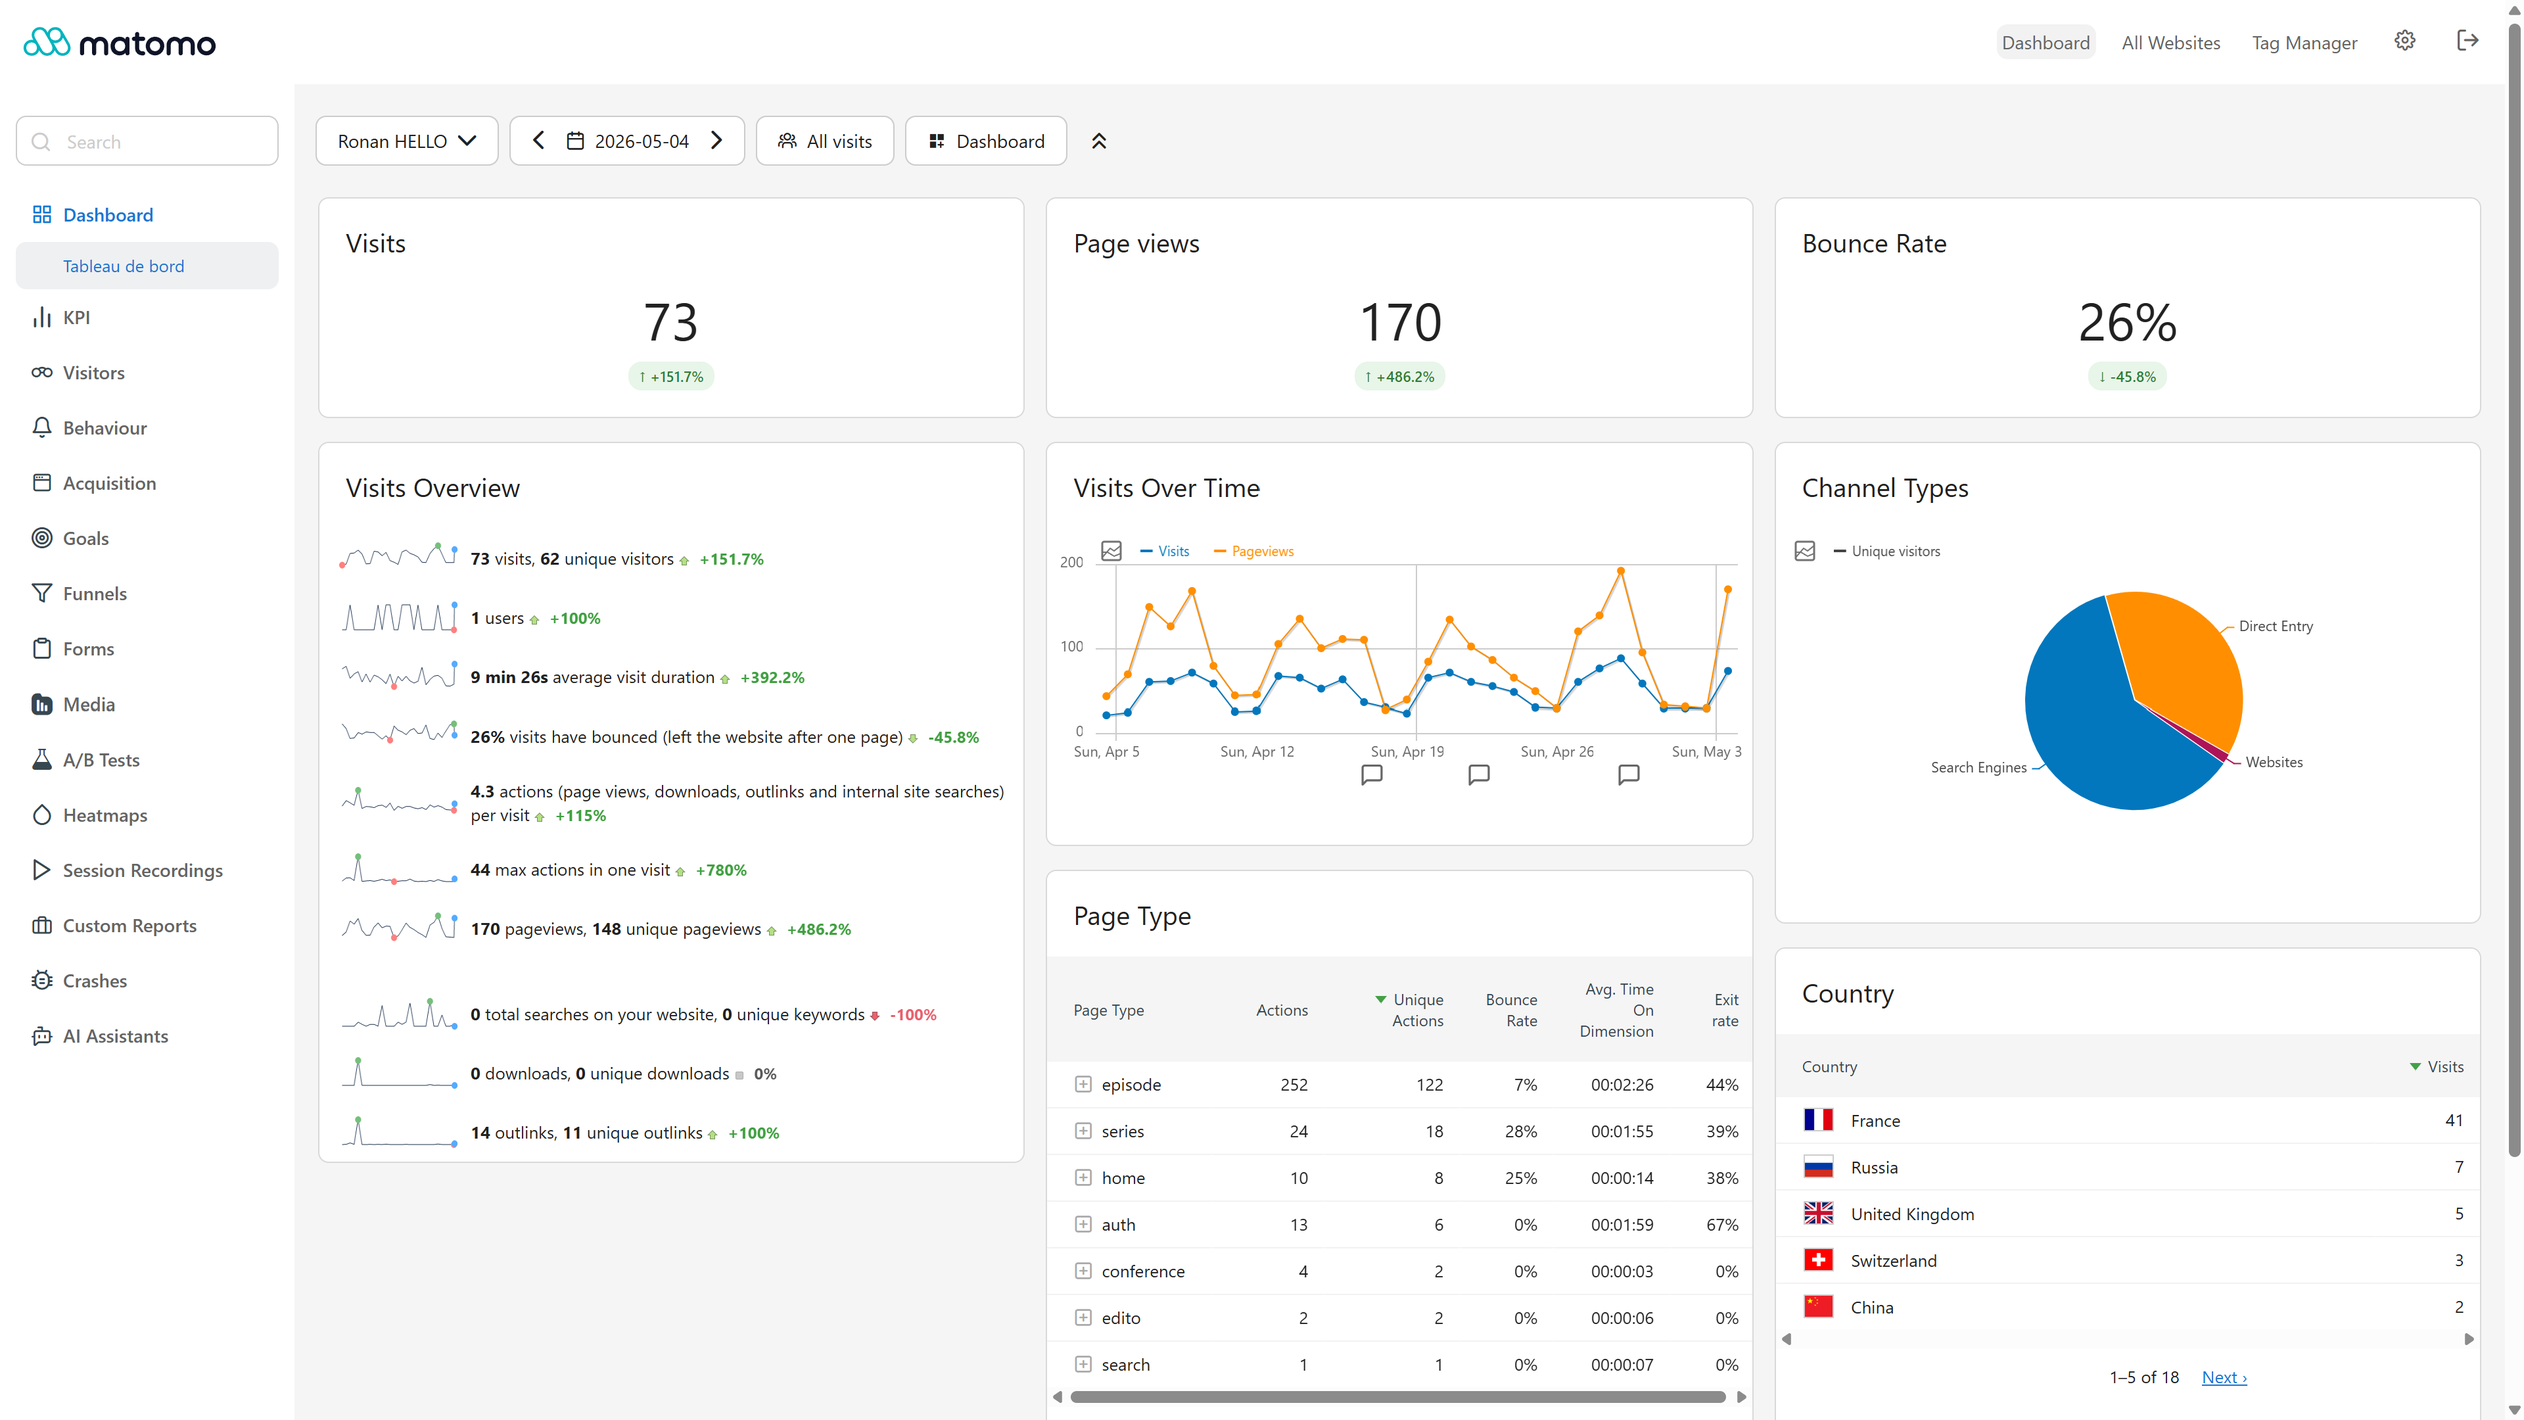
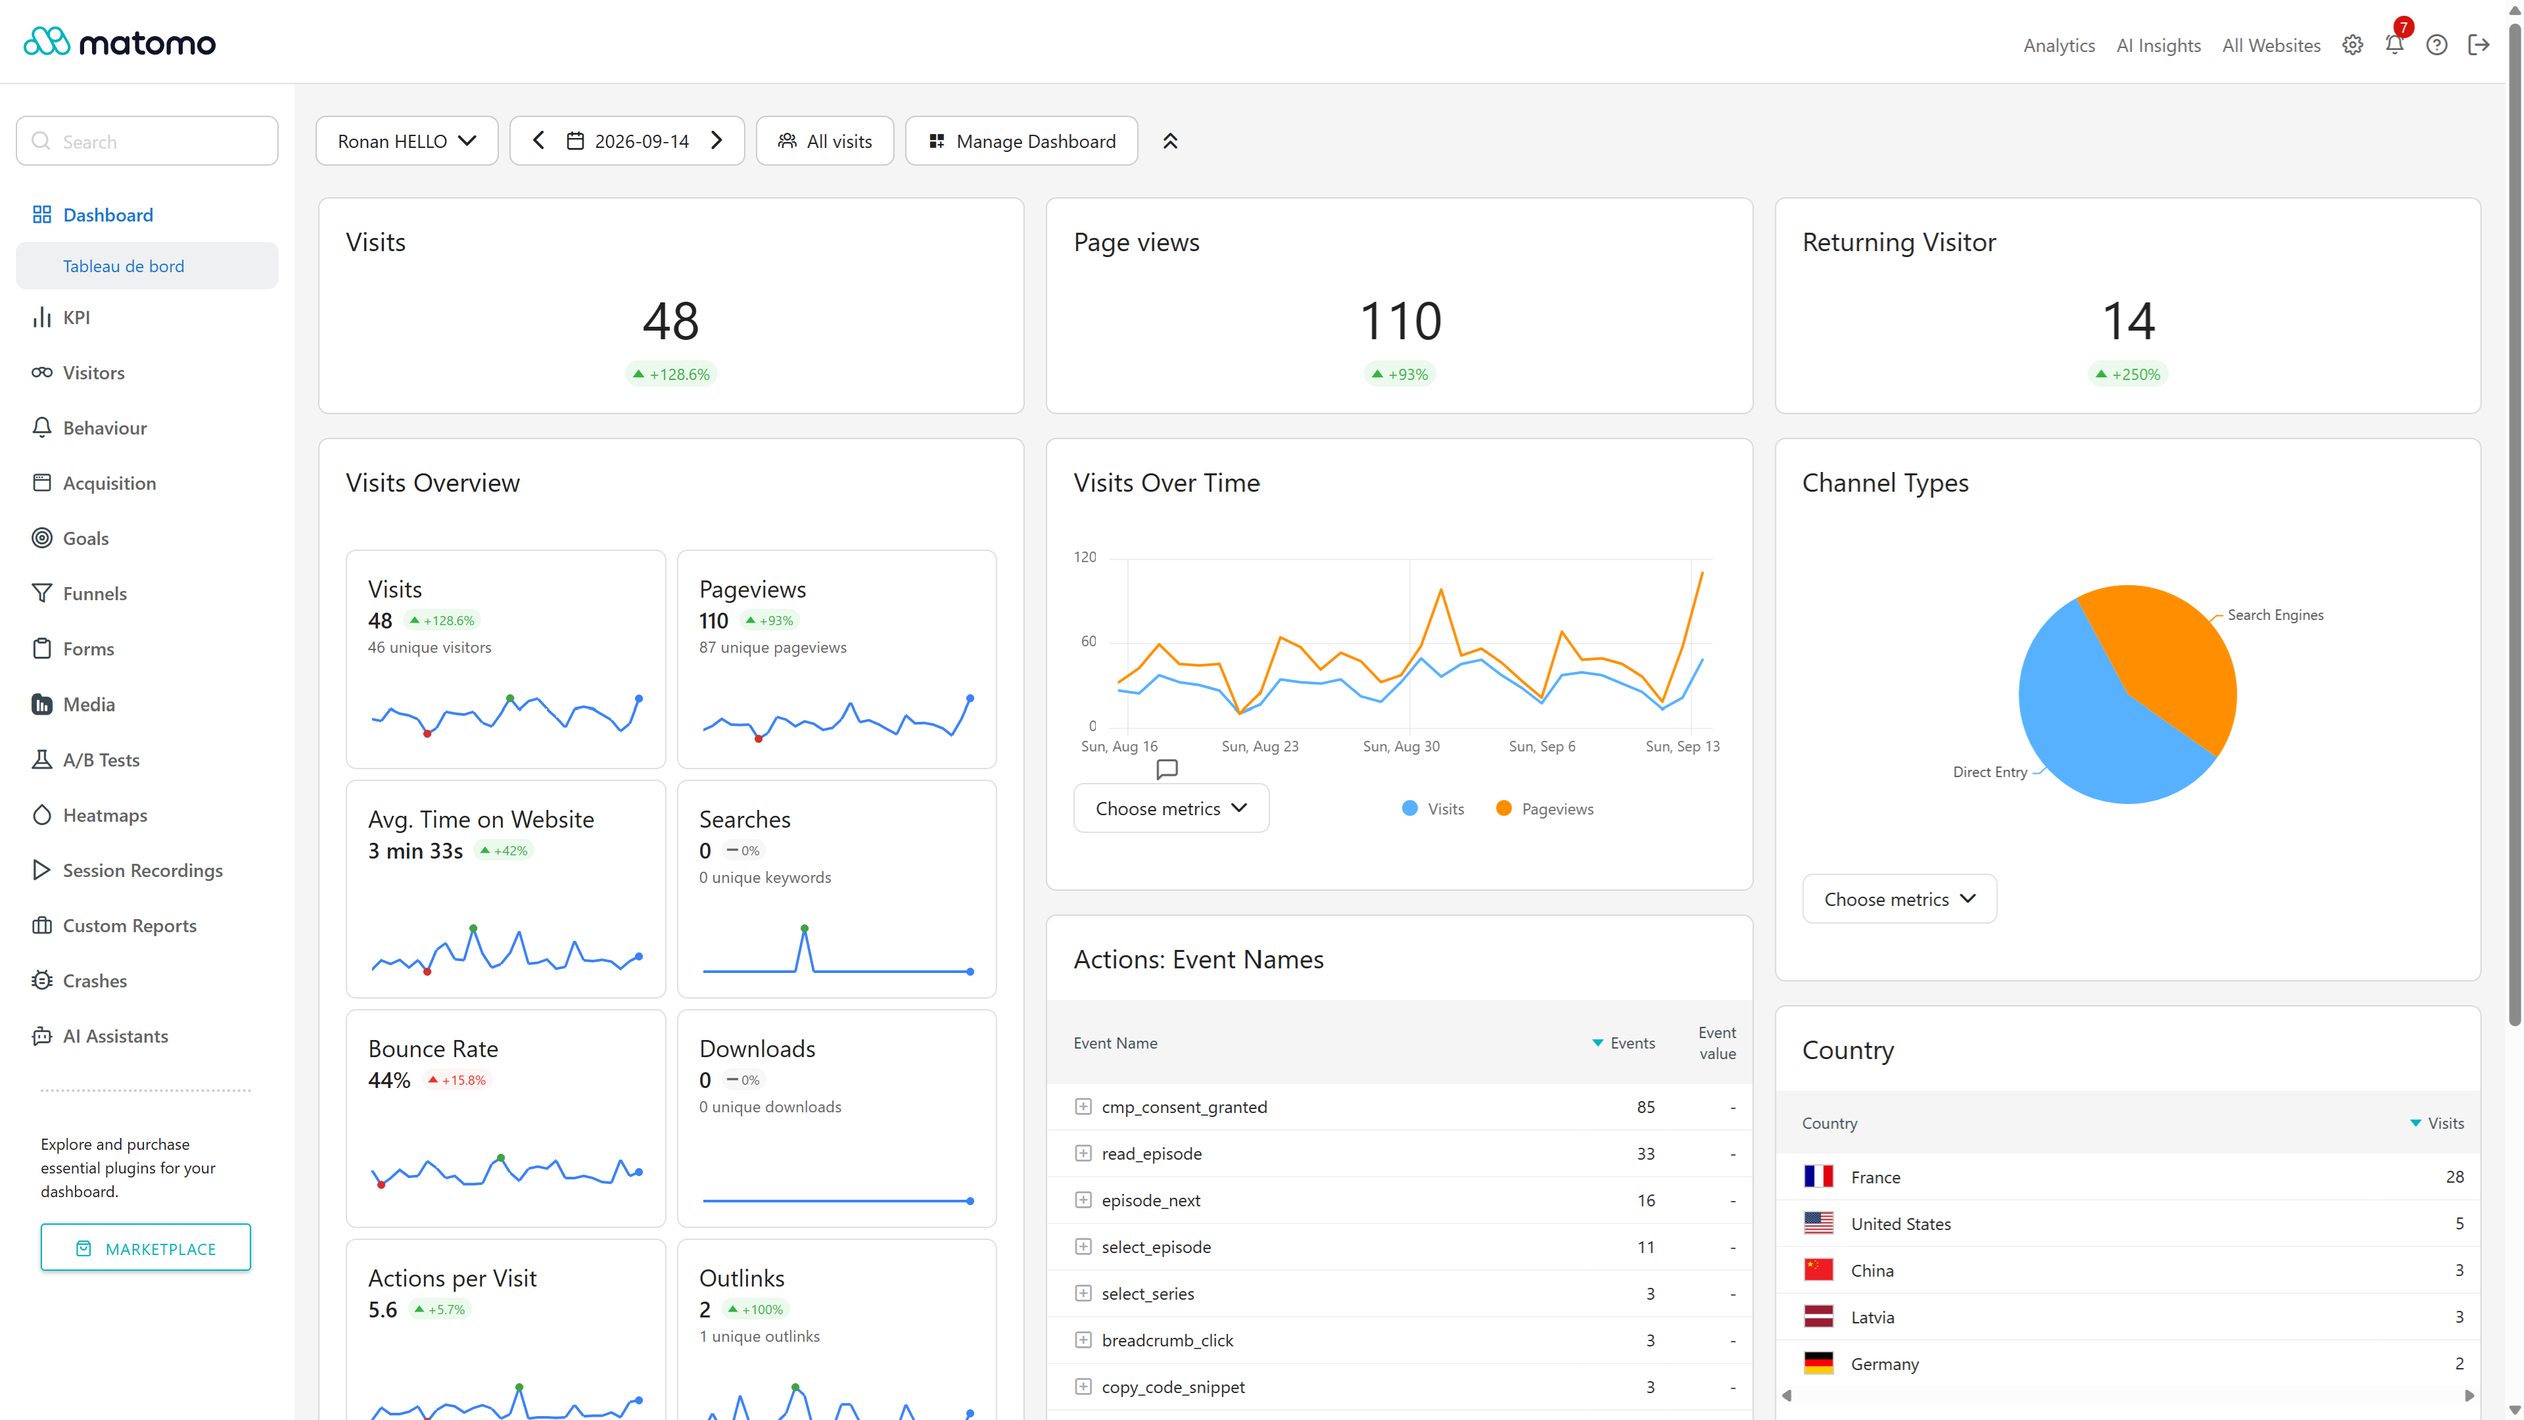
update: Matomo 6 compatibility, Vue widget with core evolution badge
- Require Matomo >=6.0.0-b1,<7.0.0-b1, bump version to 6.0.0
- Render widgets with a Vue component composing core MetricValue and EvolutionBadge
- Remove Twig templates, keep large centered value with evolution pill below
- Update README, docs and screenshots

Claude-Session: https://claude.ai/code/session_01QjDX4L4siM7ZHjnbsZhu2M

diff --git a/vue/src/KPIWidget/KPIWidget.vue b/vue/src/KPIWidget/KPIWidget.vue
@@ -1,0 +1,103 @@
+<!--
+  Matomo - free/libre analytics platform
+
+  @link    https://matomo.org
+  @license https://www.gnu.org/licenses/gpl-3.0.html GPL v3 or later
+-->
+
+<template>
+  <div
+    v-if="cardTitle"
+    class="card"
+  >
+    <div class="card-content">
+      <h2 class="card-title">{{ cardTitle }}</h2>
+      <div class="kpiWidget">
+        <MetricValue :value="displayValue">
+          <template
+            v-if="evolution"
+            #evolution
+          >
+            <EvolutionBadge
+              :percent="evolution.percent"
+              :trend="evolution.trend"
+              :is-lower-value-better="isLowerValueBetter"
+            />
+          </template>
+        </MetricValue>
+      </div>
+    </div>
+  </div>
+  <div
+    v-else
+    class="kpiWidget"
+  >
+    <MetricValue :value="displayValue">
+      <template
+        v-if="evolution"
+        #evolution
+      >
+        <EvolutionBadge
+          :percent="evolution.percent"
+          :trend="evolution.trend"
+          :is-lower-value-better="isLowerValueBetter"
+        />
+      </template>
+    </MetricValue>
+  </div>
+</template>
+
+<script lang="ts">
+import { computed, defineComponent, PropType } from 'vue';
+import { EvolutionBadge, MetricValue } from 'CoreVisualizations';
+
+export interface KPIEvolution {
+  percent: string | number;
+  trend: number;
+}
+
+/**
+ * Single KPI readout for dashboard widgets. Composes the core MetricValue + EvolutionBadge atoms;
+ * plugin.less lays them out as a large centered value with the badge below. When a card title is
+ * given (reporting page, not widgetized) the readout is wrapped in a card, as Matomo does not add
+ * one for controller-rendered widgets.
+ */
+export default defineComponent({
+  name: 'KPIWidget',
+  components: {
+    MetricValue,
+    EvolutionBadge,
+  },
+  props: {
+    // already formatted server side (number, percent, duration or money)
+    value: {
+      type: [String, Number],
+      default: '',
+    },
+    evolution: {
+      type: Object as PropType<KPIEvolution | null>,
+      default: null,
+    },
+    isLowerValueBetter: {
+      type: Boolean,
+      default: false,
+    },
+    cardTitle: {
+      type: String,
+      default: '',
+    },
+  },
+  setup(props) {
+    const displayValue = computed(() => {
+      if (props.value === null || props.value === undefined || props.value === '') {
+        return '-';
+      }
+      return props.value;
+    });
+
+    return {
+      displayValue,
+    };
+  },
+});
+</script>

diff --git a/stylesheets/plugin.less b/stylesheets/plugin.less
@@ -1,4 +1,7 @@
-.kpi-widgets {
+// Readout and evolution pill come from the core CoreVisualizations MetricValue.less and
+// EvolutionBadge.less; only the layout is overridden: large centered value, pill below.
+// Selectors are nested under .metricValue to outrank the core ones regardless of load order.
+.kpiWidget {
     padding: 0 20px 20px 20px;
     text-align: center;
     min-height: 70px;
@@ -7,61 +10,24 @@
     justify-content: center;
     align-items: center;
 
-    .kpi-value {
-        font-size: 2.5rem;
-        line-height: normal;
-    }
+    .metricValue {
+        max-width: 100%;
 
-    .kpi-evolution {
-        margin-top: 6px;
-        font-size: 0.7rem;
-        font-weight: 600;
-        padding: 2px 8px;
-        border-radius: 10px;
-        white-space: nowrap;
-    }
-
-    .kpi-positive {
-        background-color: #e8f5e9;
-        color: #2e7d32;
-    }
-
-    .kpi-negative {
-        background-color: #ffebee;
-        color: #c62828;
-    }
-
-    .kpi-neutral {
-        background-color: #f5f5f5;
-        color: #757575;
-    }
-}
-
-.kpi-widgets-dark-mode() {
-    .kpi-widgets {
-        .kpi-positive {
-            background-color: rgba(76, 175, 80, 0.18);
-            color: #81c784;
+        .metricValue__primary {
+            flex-direction: column;
+            align-items: center;
+            gap: 6px;
         }
 
-        .kpi-negative {
-            background-color: rgba(244, 67, 54, 0.18);
-            color: #ef9a9a;
-        }
-
-        .kpi-neutral {
-            background-color: rgba(255, 255, 255, 0.08);
-            color: #b0bec5;
+        .metricValue__number {
+            font-size: 2.5rem;
+            font-weight: normal;
+            line-height: normal;
+            max-width: 100%;
         }
     }
 }
 
-[data-theme-mode="dark"]:root {
-    .kpi-widgets-dark-mode();
-}
-
-[data-theme-mode="auto"]:root {
-    @media (prefers-color-scheme: dark) {
-        .kpi-widgets-dark-mode();
-    }
+.card .kpiWidget {
+    padding: 0;
 }

diff --git a/vue/dist/KPIWidgets.umd.min.js b/vue/dist/KPIWidgets.umd.min.js
@@ -1,0 +1,1 @@
+!function(e,t){"object"==typeof exports&&"undefined"!=typeof module?t(exports,require("vue"),require("CoreVisualizations")):"function"==typeof define&&define.amd?define(["exports","vue","CoreVisualizations"],t):t((e="undefined"!=typeof globalThis?globalThis:e||self).KPIWidgets={},e.Vue,e.CoreVisualizations)}(this,function(e,t,o){"use strict";const l=t.defineComponent({name:"KPIWidget",components:{MetricValue:o.MetricValue,EvolutionBadge:o.EvolutionBadge},props:{value:{type:[String,Number],default:""},evolution:{type:Object,default:null},isLowerValueBetter:{type:Boolean,default:!1},cardTitle:{type:String,default:""}},setup:e=>({displayValue:t.computed(()=>null===e.value||void 0===e.value||""===e.value?"-":e.value)})}),n={key:0,class:"card"},i={class:"card-content"},r={class:"card-title"},a={class:"kpiWidget"},u={key:1,class:"kpiWidget"};const d=((e,t)=>{const o=e.__vccOpts||e;for(const[l,n]of t)o[l]=n;return o})(l,[["render",function(e,o,l,d,c,s){const v=t.resolveComponent("EvolutionBadge"),p=t.resolveComponent("MetricValue");return e.cardTitle?(t.openBlock(),t.createElementBlock("div",n,[t.createElementVNode("div",i,[t.createElementVNode("h2",r,t.toDisplayString(e.cardTitle),1),t.createElementVNode("div",a,[t.createVNode(p,{value:e.displayValue},t.createSlots({_:2},[e.evolution?{name:"evolution",fn:t.withCtx(()=>[t.createVNode(v,{percent:e.evolution.percent,trend:e.evolution.trend,"is-lower-value-better":e.isLowerValueBetter},null,8,["percent","trend","is-lower-value-better"])]),key:"0"}:void 0]),1032,["value"])])])])):(t.openBlock(),t.createElementBlock("div",u,[t.createVNode(p,{value:e.displayValue},t.createSlots({_:2},[e.evolution?{name:"evolution",fn:t.withCtx(()=>[t.createVNode(v,{percent:e.evolution.percent,trend:e.evolution.trend,"is-lower-value-better":e.isLowerValueBetter},null,8,["percent","trend","is-lower-value-better"])]),key:"0"}:void 0]),1032,["value"])]))}]]);e.KPIWidget=d,Object.defineProperty(e,Symbol.toStringTag,{value:"Module"})});

diff --git a/vue/src/index.ts b/vue/src/index.ts
@@ -1,0 +1,8 @@
+/*!
+ * Matomo - free/libre analytics platform
+ *
+ * @link    https://matomo.org
+ * @license https://www.gnu.org/licenses/gpl-3.0.html GPL v3 or later
+ */
+
+export { default as KPIWidget } from './KPIWidget/KPIWidget.vue';

diff --git a/Controller.php b/Controller.php
@@ -13,6 +13,7 @@ use Piwik\Common;
 use Piwik\Metrics\Formatter;
 use Piwik\Piwik;
 use Piwik\Plugins\KPIWidgets\Services\MetricsService;
+use Piwik\Plugins\KPIWidgets\Services\VueEntry;
 
 class Controller extends \Piwik\Plugin\Controller
 {
@@ -144,13 +145,9 @@ class Controller extends \Piwik\Plugin\Controller
 
     private function renderGoalWidget($title, $value, $evolution)
     {
-        // Use different template based on context
-        // On dashboard: use simple widget template (Matomo adds the card wrapper)
-        // On reporting page: use goalWidget template with card wrapper
-        $template = $this->isWidgetized() ? 'widget' : 'goalWidget';
-
-        return $this->renderTemplate($template, [
-            'title' => $title,
+        // On dashboard Matomo adds the card wrapper and title, on reporting page the component renders them
+        return VueEntry::renderKPIWidget([
+            'cardTitle' => $this->isWidgetized() ? '' : $title,
             'value' => $value,
             'evolution' => $evolution,
             'isLowerValueBetter' => false,

diff --git a/Services/VueEntry.php b/Services/VueEntry.php
@@ -1,0 +1,32 @@
+<?php
+/**
+ * Matomo - free/libre analytics platform
+ *
+ * @link https://matomo.org
+ * @license http://www.gnu.org/licenses/gpl-3.0.html GPL v3 or later
+ */
+
+declare(strict_types=1);
+
+namespace Piwik\Plugins\KPIWidgets\Services;
+
+use Piwik\Common;
+
+class VueEntry
+{
+    /**
+     * Render the mount point of the KPIWidgets.KPIWidget Vue component
+     *
+     * @param array $props camelCase prop name => value, JSON encoded into kebab-case attributes
+     */
+    public static function renderKPIWidget(array $props): string
+    {
+        $attributes = '';
+        foreach ($props as $name => $value) {
+            $attribute = strtolower((string) preg_replace('/[A-Z]/', '-$0', $name));
+            $attributes .= sprintf(' %s="%s"', $attribute, Common::sanitizeInputValue(json_encode($value)));
+        }
+
+        return '<div vue-entry="KPIWidgets.KPIWidget"' . $attributes . '></div>';
+    }
+}

diff --git a/Widgets/Base.php b/Widgets/Base.php
@@ -12,6 +12,7 @@ namespace Piwik\Plugins\KPIWidgets\Widgets;
 
 use Piwik\Metrics\Formatter;
 use Piwik\Plugins\KPIWidgets\Services\MetricsService;
+use Piwik\Plugins\KPIWidgets\Services\VueEntry;
 use Piwik\Widget\Widget;
 use Piwik\Widget\WidgetConfig;
 
@@ -115,12 +116,10 @@ abstract class Base extends Widget
         // Format the value
         $formattedValue = $this->formatValue($currentValue, $context['idSite']);
 
-        return $this->renderTemplate('widget', [
+        return VueEntry::renderKPIWidget([
             'value' => $formattedValue,
-            'rawValue' => $currentValue,
             'evolution' => $evolution,
             'isLowerValueBetter' => static::isLowerValueBetter(),
-            'format' => static::getFormat(),
         ]);
     }
 

diff --git a/docs/index.md b/docs/index.md
@@ -2,11 +2,11 @@
 
 This plugin use the Matomo internal API to work, no additional code needed.
 
-If you want to contribute, please download the folder and continue in this direction using small and maintainable components and PHP Class. 
+If you want to contribute, please download the folder and continue in this direction using small and maintainable components and PHP Class.
 
 Consider this is my first Matomo plugin, be compliant and please tell me how to make it better if you see any errors.
 
-Widgets are grouped under three subcategories: Traffic, Engagement and Goals.
+Widgets are grouped under three subcategories: Traffic, Behavior and Goals.
 
 ### Traffic
 - Visits
@@ -24,7 +24,7 @@ Widgets are grouped under three subcategories: Traffic, Engagement and Goals.
 - Downloads
 - Unique downloads
 
-### Engagement
+### Behavior
 - Actions per visits
 - Average time on site
 - Average time generation

diff --git a/README.md b/README.md
@@ -2,9 +2,11 @@
 Display KPI in widgets on your Matomo dashboard !
 
 ## Description
-With KPI Widgets plugin, you'll be able to display the most important KPI on your Matomo dashboard the easyeast way !
+With KPI Widgets plugin, you'll be able to display the most important KPI on your Matomo dashboard the easiest way !
+
+Each widget shows the current value with an evolution indicator compared to the previous period, using the Matomo 6 design.
 
 __Thank you for installing !__
-  
+
 ## Want more ?
-If you want to have your own plugin or want to develop a plugin for your customers, please contact me using my email in the marketplace official page or go to https://lazuli.agency (french)
+If you want to have your own plugin or want to develop a plugin for your customers, please contact me using my email in the marketplace official page or go to https://openmost.com

diff --git a/CHANGELOG.md b/CHANGELOG.md
@@ -1,5 +1,14 @@
 ## Changelog
 
+### v6.0.0
+
+- Compatibility with Matomo 6.x (`>=6.0.0-b1,<7.0.0-b1`)
+- Requires PHP 8.1+
+- Update plugin homepage URL
+- Widgets rendered by a Vue component (`KPIWidgets.KPIWidget`) composing the core `MetricValue` and `EvolutionBadge` components
+- Evolution indicator aligned with Matomo 6 design (brand colours, triangle / dash icons, dark mode)
+- Remove Twig templates
+
 ### v5.2.0
 
 - Add dark mode styles for evolution indicator (positive / negative / neutral pills)
